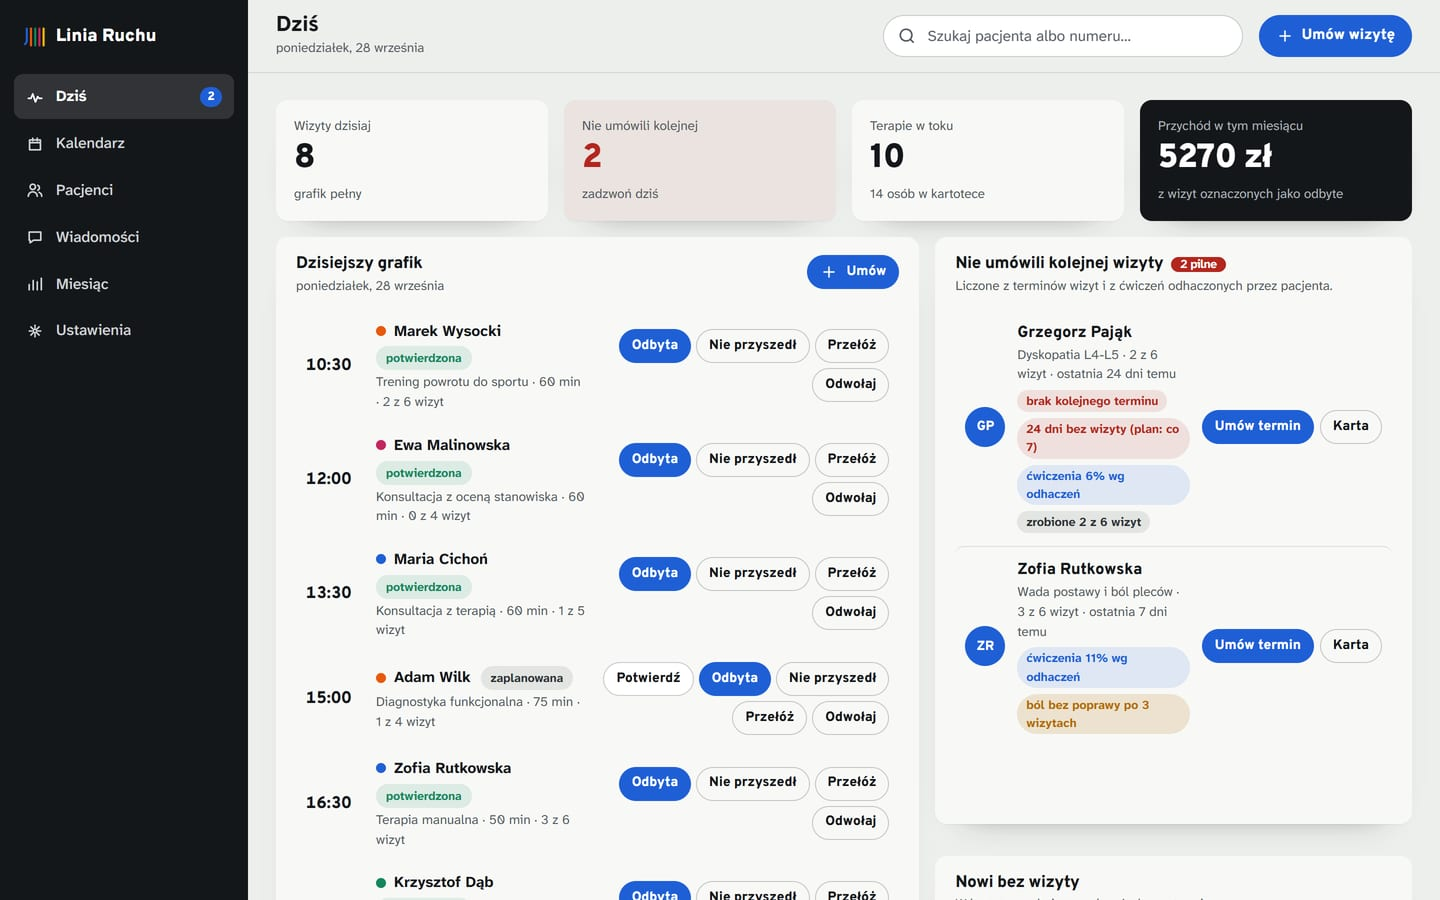
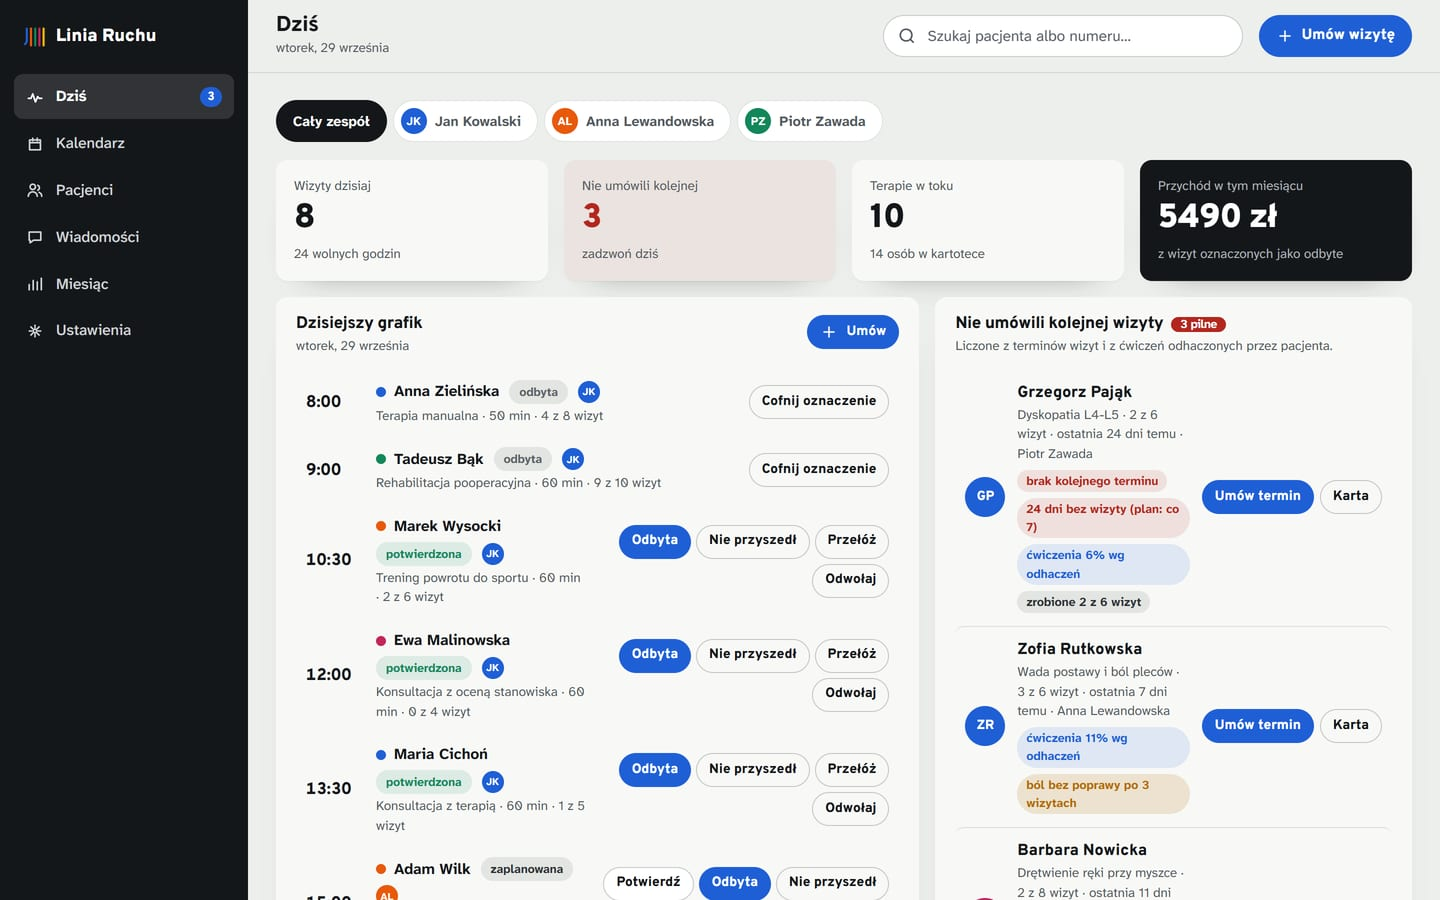
Teksty w liczbie mnogiej i swiezy podglad panelu
Po przejsciu na zespol podstrony problemowe wciaz mowily „sprawdzam",
„prowadze", „dzwonie do lekarza" — jednoosobowym jezykiem gabinetu, ktorego
juz nie ma. Poprawione w plikach i w generatorze, ktory je tworzy.

Podglad panelu w ofercie pokazywal wersje sprzed zespolu.

Changed region(s): [[0.1875, 0.0933, 1.0, 1.0], [0.1875, 0.0311, 0.2812, 0.0622]]

diff --git a/rehabilitacja-po-operacji.html b/rehabilitacja-po-operacji.html
@@ -28,7 +28,7 @@
     "mainEntity": {
       "@type": "FAQPage",
       "mainEntity": [
-        { "@type": "Question", "name": "Mam zalecenia od lekarza. Czy się nimi kierujesz?", "acceptedAnswer": { "@type": "Answer", "text": "Tak, protokół operatora jest nadrzędny. Jeśli coś w nim budzi wątpliwość, dzwonię do lekarza prowadzącego, a nie improwizuję." } },
+        { "@type": "Question", "name": "Mam zalecenia od lekarza. Czy się nimi kierujesz?", "acceptedAnswer": { "@type": "Answer", "text": "Tak, protokół operatora jest nadrzędny. Jeśli coś w nim budzi wątpliwość, dzwonimy do lekarza prowadzącego, a nie improwizujemy." } },
         { "@type": "Question", "name": "Czy rehabilitacja na NFZ i u Ciebie się wykluczają?", "acceptedAnswer": { "@type": "Answer", "text": "Nie. Sporo osób łączy jedno z drugim — wtedy ustalamy, co robimy tutaj, żeby się nie dublować." } },
         { "@type": "Question", "name": "Kiedy zacząć po zabiegu?", "acceptedAnswer": { "@type": "Answer", "text": "Zwykle tak szybko, jak pozwoli operator — często już w pierwszym albo drugim tygodniu. Czekanie do zdjęcia szwów rzadko bywa konieczne." } }
       ]
@@ -82,7 +82,7 @@
     <section class="pro-hero">
       <p class="pro-hero__kicker">Rehabilitacja po operacji w <span data-k="miasto">[Twoje Miasto]</span></p>
       <h1 class="pro-hero__title">Po operacji<span>albo po złamaniu.</span></h1>
-      <p class="pro-hero__lead">Po zabiegu najtrudniejsze jest tempo: za wolno oznacza sztywność, za szybko oznacza cofnięcie się o tygodnie. Prowadzę Cię tak, żeby każdy etap przyszedł we właściwym momencie.</p>
+      <p class="pro-hero__lead">Po zabiegu najtrudniejsze jest tempo: za wolno oznacza sztywność, za szybko oznacza cofnięcie się o tygodnie. Prowadzimy Cię tak, żeby każdy etap przyszedł we właściwym momencie.</p>
       <div class="pro-hero__cta">
         <a class="btn btn--color btn--lg" href="demo.html#rezerwacja">Umów wizytę</a>
         <a class="btn btn--line btn--lg" href="tel:+48000000000">Zadzwoń: <span data-k="telefon">+48 000 000 000</span></a>
@@ -103,7 +103,7 @@
     <section class="pro-blok pro-blok--ciemny">
       <h2 class="pro-h2">Jak wygląda prowadzenie po zabiegu</h2>
       <ol class="przebieg">
-        <li><h3>Punkt wyjścia i protokół</h3><p>Czytam zalecenia operatora i mierzę, gdzie jesteś: zakres ruchu, obwody, obciążanie, chód.</p></li>
+        <li><h3>Punkt wyjścia i protokół</h3><p>Czytamy zalecenia operatora i mierzymy, gdzie jesteś: zakres ruchu, obwody, obciążanie, chód.</p></li>
         <li><h3>Odzyskanie ruchu</h3><p>Praca z blizną, torebką stawową i tkankami wokół. Bez ruchu nie ma sensu wzmacniać.</p></li>
         <li><h3>Siła i kontrola</h3><p>Stopniowe obciążanie, najpierw w bezpiecznym zakresie, potem w pełnym.</p></li>
         <li><h3>Powrót do codzienności albo do sportu</h3><p>Schody, dłuższe spacery, prowadzenie auta — a jeśli trenowałeś, wracamy do treningu z testami.</p></li>
@@ -124,7 +124,7 @@
     <section class="pro-blok">
       <h2 class="pro-h2">Częste pytania</h2>
       <dl class="pro-faq">
-        <div><dt>Mam zalecenia od lekarza. Czy się nimi kierujesz?</dt><dd>Tak, protokół operatora jest nadrzędny. Jeśli coś w nim budzi wątpliwość, dzwonię do lekarza prowadzącego, a nie improwizuję.</dd></div>
+        <div><dt>Mam zalecenia od lekarza. Czy się nimi kierujesz?</dt><dd>Tak, protokół operatora jest nadrzędny. Jeśli coś w nim budzi wątpliwość, dzwonimy do lekarza prowadzącego, a nie improwizujemy.</dd></div>
         <div><dt>Czy rehabilitacja na NFZ i u Ciebie się wykluczają?</dt><dd>Nie. Sporo osób łączy jedno z drugim — wtedy ustalamy, co robimy tutaj, żeby się nie dublować.</dd></div>
         <div><dt>Kiedy zacząć po zabiegu?</dt><dd>Zwykle tak szybko, jak pozwoli operator — często już w pierwszym albo drugim tygodniu. Czekanie do zdjęcia szwów rzadko bywa konieczne.</dd></div>
       </dl>

diff --git a/fizjoterapia-sportowa.html b/fizjoterapia-sportowa.html
@@ -30,7 +30,7 @@
       "mainEntity": [
         { "@type": "Question", "name": "Kiedy mogę wrócić do biegania?", "acceptedAnswer": { "@type": "Answer", "text": "Kiedy przejdziesz testy, a nie kiedy przestanie boleć. Zwykle to kilka tygodni różnicy — i to w tej różnicy dochodzi do nawrotów." } },
         { "@type": "Question", "name": "Czy mogę trenować w trakcie terapii?", "acceptedAnswer": { "@type": "Answer", "text": "Prawie zawsze tak, tylko inaczej. Ustalamy, co zostaje, co schodzi na chwilę i czym to zastąpić." } },
-        { "@type": "Question", "name": "Pracujesz z konkretną dyscypliną?", "acceptedAnswer": { "@type": "Answer", "text": "Testy dobieram do tego, co robisz. Inaczej wygląda powrót do biegania, inaczej do sportów z kontaktem." } }
+        { "@type": "Question", "name": "Pracujesz z konkretną dyscypliną?", "acceptedAnswer": { "@type": "Answer", "text": "Testy dobieramy do tego, co robisz. Inaczej wygląda powrót do biegania, inaczej do sportów z kontaktem." } }
       ]
     }
   }
@@ -82,7 +82,7 @@
     <section class="pro-hero">
       <p class="pro-hero__kicker">Fizjoterapia sportowa w <span data-k="miasto">[Twoje Miasto]</span></p>
       <h1 class="pro-hero__title">Kontuzja zatrzymała trening?<span>Wróćmy tak, żeby nie wróciła.</span></h1>
-      <p class="pro-hero__lead">Powrót do sportu to nie moment, w którym przestaje boleć. To moment, w którym staw wytrzymuje obciążenie, które go kiedyś uszkodziło. Sprawdzam jedno i drugie.</p>
+      <p class="pro-hero__lead">Powrót do sportu to nie moment, w którym przestaje boleć. To moment, w którym staw wytrzymuje obciążenie, które go kiedyś uszkodziło. Sprawdzamy jedno i drugie.</p>
       <div class="pro-hero__cta">
         <a class="btn btn--color btn--lg" href="demo.html#rezerwacja">Umów wizytę</a>
         <a class="btn btn--line btn--lg" href="tel:+48000000000">Zadzwoń: <span data-k="telefon">+48 000 000 000</span></a>
@@ -126,7 +126,7 @@
       <dl class="pro-faq">
         <div><dt>Kiedy mogę wrócić do biegania?</dt><dd>Kiedy przejdziesz testy, a nie kiedy przestanie boleć. Zwykle to kilka tygodni różnicy — i to w tej różnicy dochodzi do nawrotów.</dd></div>
         <div><dt>Czy mogę trenować w trakcie terapii?</dt><dd>Prawie zawsze tak, tylko inaczej. Ustalamy, co zostaje, co schodzi na chwilę i czym to zastąpić.</dd></div>
-        <div><dt>Pracujesz z konkretną dyscypliną?</dt><dd>Testy dobieram do tego, co robisz. Inaczej wygląda powrót do biegania, inaczej do sportów z kontaktem.</dd></div>
+        <div><dt>Pracujesz z konkretną dyscypliną?</dt><dd>Testy dobieramy do tego, co robisz. Inaczej wygląda powrót do biegania, inaczej do sportów z kontaktem.</dd></div>
       </dl>
     </section>
 

diff --git a/fizjoterapia-kregoslupa.html b/fizjoterapia-kregoslupa.html
@@ -82,7 +82,7 @@
     <section class="pro-hero">
       <p class="pro-hero__kicker">Terapia kręgosłupa w <span data-k="miasto">[Twoje Miasto]</span></p>
       <h1 class="pro-hero__title">Boli kręgosłup?<span>Zacznijmy od znalezienia przyczyny.</span></h1>
-      <p class="pro-hero__lead">Ból pleców rzadko bierze się z miejsca, które boli. Na pierwszej wizycie sprawdzam, jak pracuje cały kręgosłup, biodra i klatka — i pokazuję, co z tego wynika.</p>
+      <p class="pro-hero__lead">Ból pleców rzadko bierze się z miejsca, które boli. Na pierwszej wizycie sprawdzamy, jak pracuje cały kręgosłup, biodra i klatka — i pokazujemy, co z tego wynika.</p>
       <div class="pro-hero__cta">
         <a class="btn btn--color btn--lg" href="demo.html#rezerwacja">Umów wizytę</a>
         <a class="btn btn--line btn--lg" href="tel:+48000000000">Zadzwoń: <span data-k="telefon">+48 000 000 000</span></a>
@@ -103,7 +103,7 @@
     <section class="pro-blok pro-blok--ciemny">
       <h2 class="pro-h2">Jak wygląda terapia kręgosłupa</h2>
       <ol class="przebieg">
-        <li><h3>Badanie ruchu, nie tylko bolącego miejsca</h3><p>Sprawdzam zakres ruchu w każdej płaszczyźnie, siłę mięśni i to, jak rozkłada się obciążenie. Szukam ogniwa, które nie pracuje.</p></li>
+        <li><h3>Badanie ruchu, nie tylko bolącego miejsca</h3><p>Sprawdzamy zakres ruchu w każdej płaszczyźnie, siłę mięśni i to, jak rozkłada się obciążenie. Szukamy ogniwa, które nie pracuje.</p></li>
         <li><h3>Terapia manualna i praca z tkankami</h3><p>Mobilizacja segmentów, które się zablokowały, i rozluźnienie tego, co przeciążone w zastępstwie.</p></li>
         <li><h3>Ćwiczenia, które robisz w domu</h3><p>Trzy do pięciu ćwiczeń, po kilka minut dziennie. Dostajesz je na kartę z rysunkami i możesz odhaczać na telefonie.</p></li>
         <li><h3>Zmiana tego, co wywołuje ból</h3><p>Sposób siedzenia, podnoszenia, spania. Bez tego terapia działa tylko do końca cyklu wizyt.</p></li>

diff --git a/assets/js/app.js b/assets/js/app.js
@@ -988,7 +988,7 @@
           <button class="btn btn--color btn--lg" type="button" data-kw-umow="${u.id}">Umów ten termin</button>
           <button class="back" type="button" data-kw-reset>Zacznij od nowa</button>
         </div>
-        <p class="kw__uwaga">To podpowiedź, nie diagnoza. Na wizycie sprawdzam, czy kierunek jest właściwy — jeśli nie, mówię to wprost.</p>
+        <p class="kw__uwaga">To podpowiedź, nie diagnoza. Na wizycie sprawdzamy, czy kierunek jest właściwy — jeśli nie, mówimy to wprost.</p>
       </div>`;
       return;
     }

diff --git a/demo.html b/demo.html
@@ -78,7 +78,7 @@
             <span>Idź za kolorem.</span>
           </h1>
           <p class="hero__lead">
-            Cztery rzeczy, z którymi najczęściej do mnie przychodzicie. Wybierz swoją, a pokażę
+            Cztery rzeczy, z którymi najczęściej do nas przychodzicie. Wybierz swoją, a pokażemy
             najbliższy wolny termin. Rezerwacja zajmuje mniej niż minutę.
           </p>
           <div class="hero__cta">
